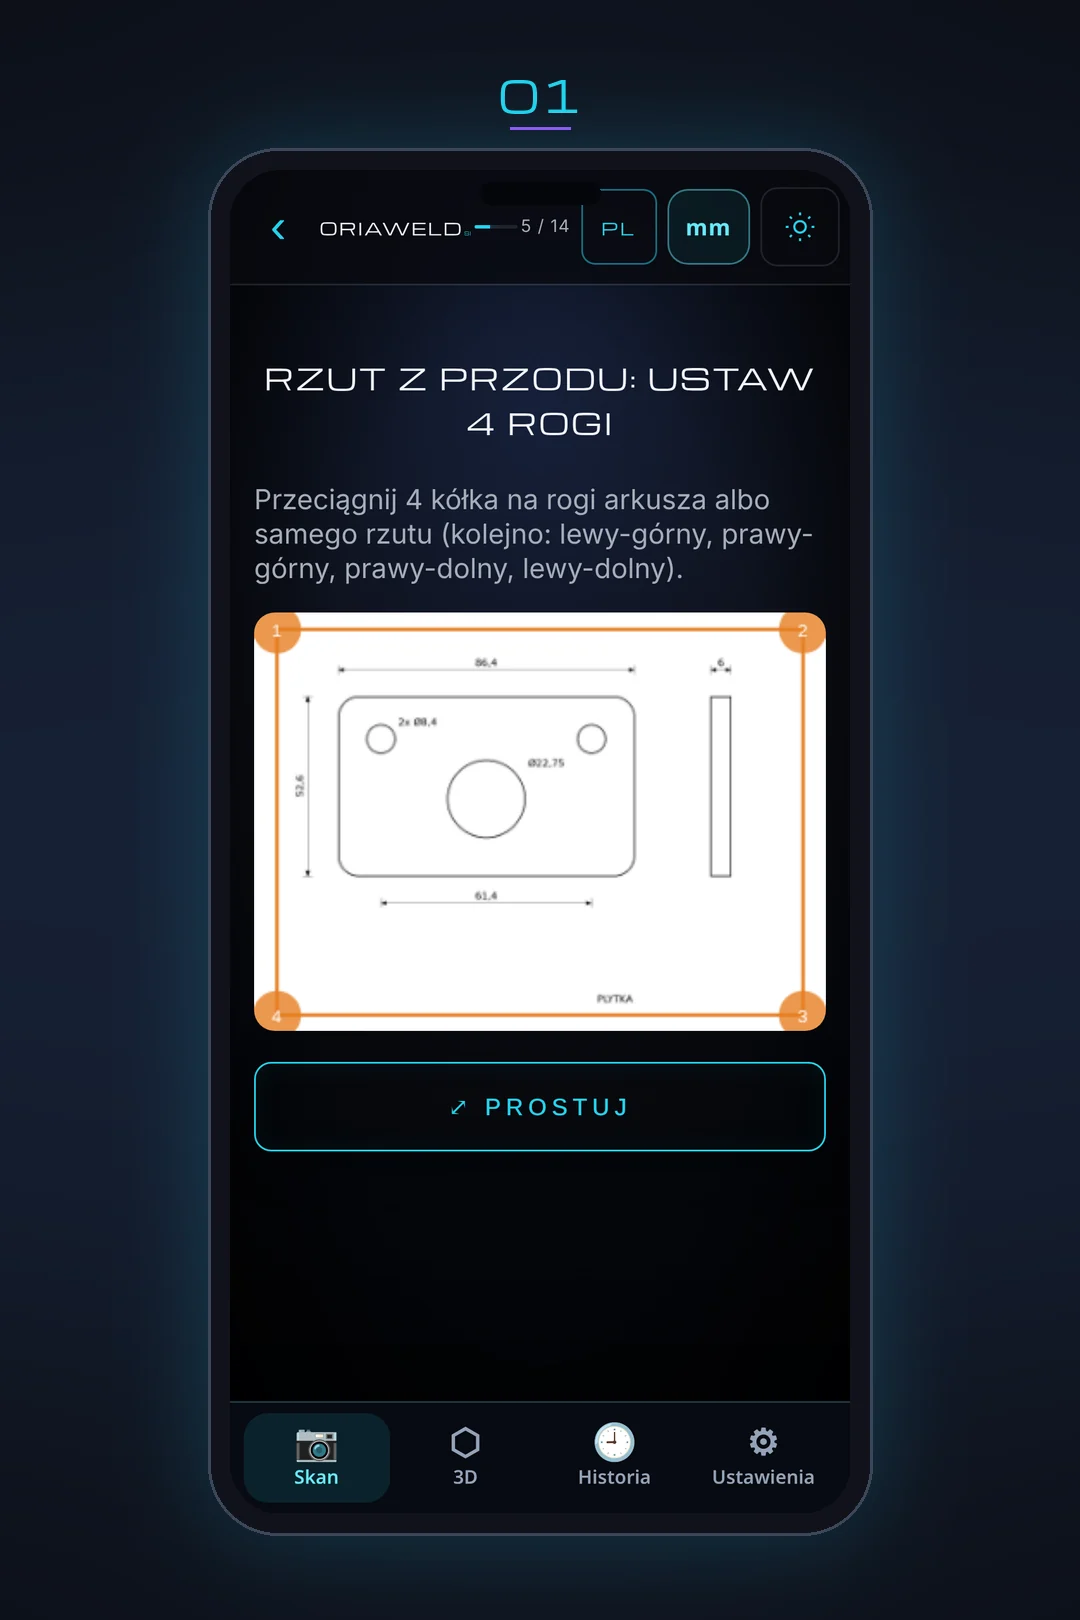
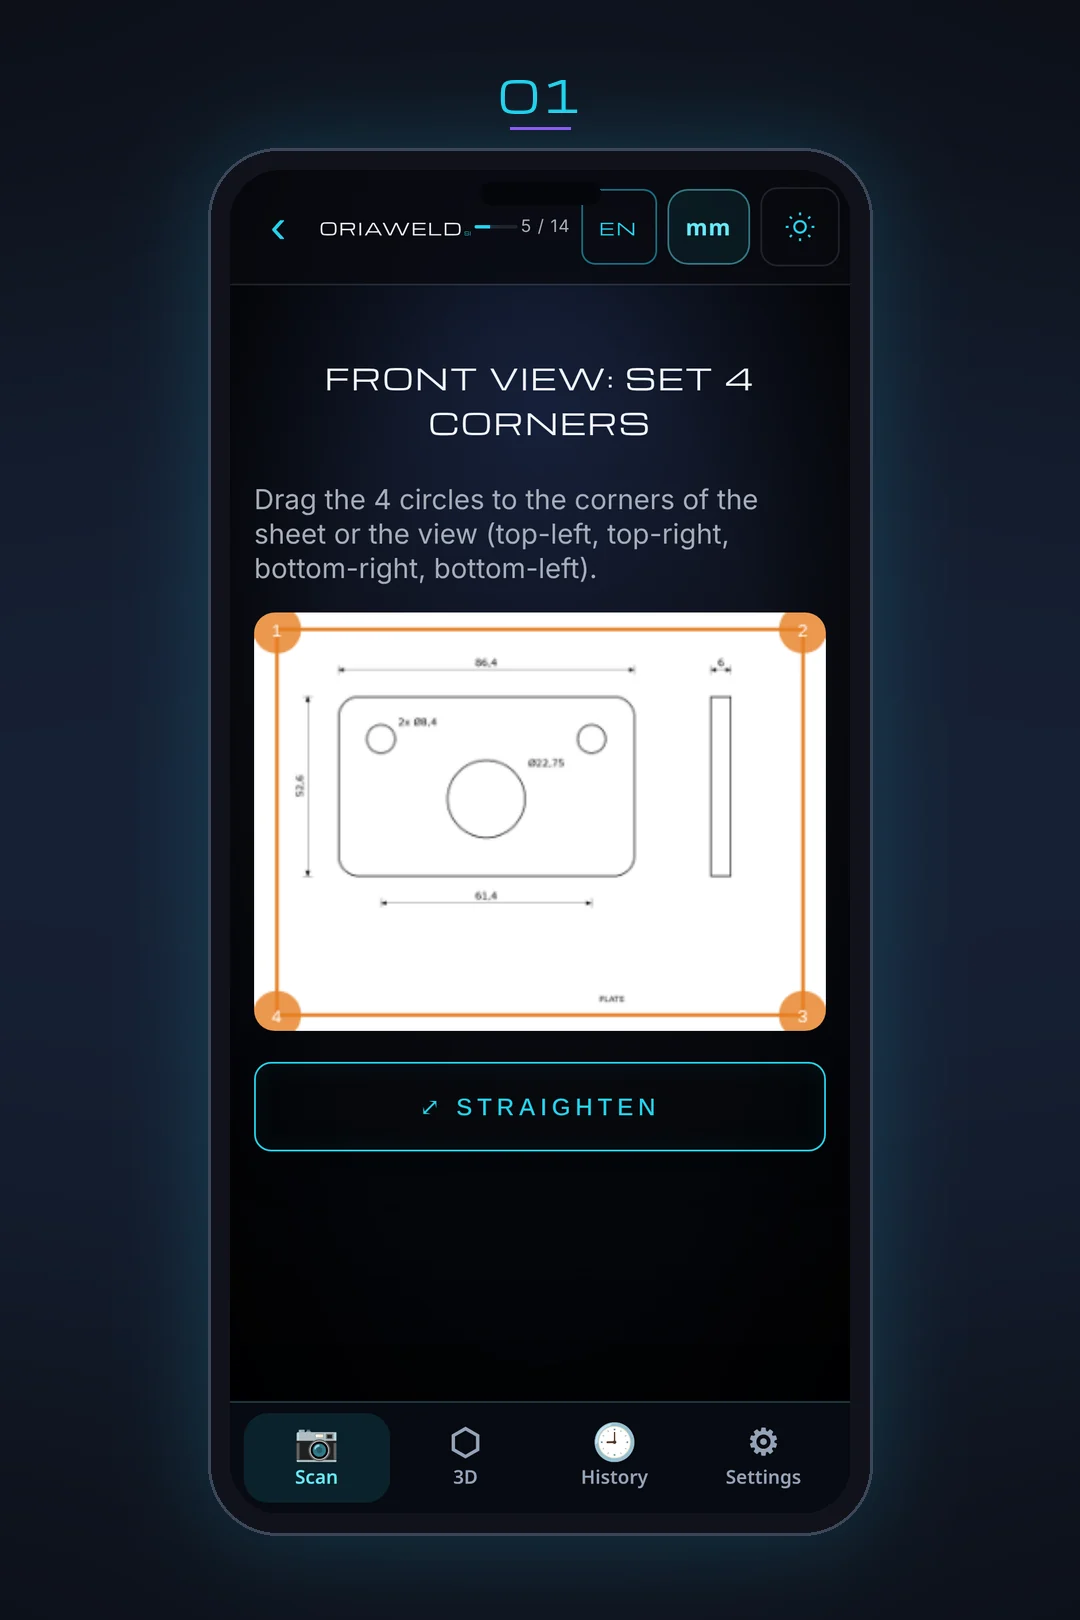
Nowe angielskie grafiki krokow (v=2), alt kroku 1: plyta

diff --git a/index.html b/index.html
@@ -139,9 +139,9 @@ footer a{display:inline-block;padding:.5rem .2rem}
 <sec id="jak">
   <h2 data-k="jak" style="text-align:center">Jak to działa</h2>
   <div class="steps">
-    <div class="st"><img src="img/krok1.webp" width="1080" height="1620" loading="eager" alt="Ekran aplikacji: kadrowanie zdjęcia rysunku technicznego" data-ka="s1a"><h3 data-k="s1t">Zrób zdjęcie rysunku</h3><p data-k="s1d">Sfotografuj rysunek techniczny lub wczytaj plik, potem wykadruj i wyprostuj.</p></div>
-    <div class="st"><img src="img/krok2.webp" width="1080" height="1620" loading="eager" alt="Ekran aplikacji: hologram 3D ramy z wymiarami na stole spawalniczym" data-ka="s2a"><h3 data-k="s2t">Program stworzy projekt 3D</h3><p data-k="s2d">Aplikacja odczyta wymiary i profile, a następnie zbuduje model 3D na Twoim stole.</p></div>
-    <div class="st"><img src="img/krok3.webp" width="1080" height="1620" loading="eager" alt="Ekran aplikacji: podgląd modelu i przycisk Zobacz w AR" data-ka="s3a"><h3 data-k="s3t">Włącz AR i przyspiesz pracę</h3><p data-k="s3d">Zobacz model w skali 1:1 na telefonie lub tablecie i pracuj szybciej.</p></div>
+    <div class="st"><img src="img/krok1.webp?v=2" width="1080" height="1620" loading="eager" alt="Ekran aplikacji: kadrowanie zdjęcia rysunku technicznego" data-ka="s1a"><h3 data-k="s1t">Zrób zdjęcie rysunku</h3><p data-k="s1d">Sfotografuj rysunek techniczny lub wczytaj plik, potem wykadruj i wyprostuj.</p></div>
+    <div class="st"><img src="img/krok2.webp?v=2" width="1080" height="1620" loading="eager" alt="Ekran aplikacji: hologram 3D ramy z wymiarami na stole spawalniczym" data-ka="s2a"><h3 data-k="s2t">Program stworzy projekt 3D</h3><p data-k="s2d">Aplikacja odczyta wymiary i profile, a następnie zbuduje model 3D na Twoim stole.</p></div>
+    <div class="st"><img src="img/krok3.webp?v=2" width="1080" height="1620" loading="eager" alt="Ekran aplikacji: podgląd modelu i przycisk Zobacz w AR" data-ka="s3a"><h3 data-k="s3t">Włącz AR i przyspiesz pracę</h3><p data-k="s3d">Zobacz model w skali 1:1 na telefonie lub tablecie i pracuj szybciej.</p></div>
   </div>
   <div class="dots"><i class="on"></i><i></i><i></i></div>
 </sec>
@@ -158,9 +158,9 @@ footer a{display:inline-block;padding:.5rem .2rem}
 
 <script>
 const D={
-pl:{kick:"PRZYSZŁOŚĆ SPAWALNICTWA DZIEJE SIĘ TERAZ",h1:"Bądź profesjonalistą.<br>Bądź na czasie.",lead:"Zrób zdjęcie rysunku. Zobacz gotową ramę na stole w kilka minut. Dokładne ułożenie. Mniej poprawek. Mniej stresu.",btn:"Pobierz teraz",j1:"Zrób zdjęcie rysunku technicznego.",j2:"W kilka minut dostajesz model 3D.",j3:"Zobacz dokładne ułożenie na swoim stole.",tech:"Bezpieczeństwo i technologia",techp:"Aplikacja działa offline. Silniki wytrenowane na sztucznej inteligencji. Siła matematyki i spawalniczego sprytu. Żadne rysunki nie wychodzą z telefonu.",ready:"Gotowy na zmianę?",readyp:"Wkrótce w App Store i Google Play.",kon:"Kontakt",konp:"Masz pytania o ORIAWELD SI? Napisz do nas.",soon:"Wkrótce",jak:"Jak to działa",s1t:"Zrób zdjęcie rysunku",s1d:"Sfotografuj rysunek techniczny lub wczytaj plik, potem wykadruj i wyprostuj.",s1a:"Ekran aplikacji: kadrowanie zdjęcia rysunku technicznego",s2t:"Program stworzy projekt 3D",s2d:"Aplikacja odczyta wymiary i profile, a następnie zbuduje model 3D na Twoim stole.",s2a:"Ekran aplikacji: hologram 3D ramy z wymiarami na stole spawalniczym",s3t:"Włącz AR i przyspiesz pracę",s3d:"Zobacz model w skali 1:1 na telefonie lub tablecie i pracuj szybciej.",s3a:"Ekran aplikacji: podgląd modelu i przycisk Zobacz w AR"},
-en:{kick:"THE FUTURE OF WELDING IS HAPPENING NOW",h1:"Be a professional.<br>Stay ahead.",lead:"Take a photo of the drawing. See the finished frame on the table in minutes. Exact placement. Fewer corrections. Less stress.",btn:"Download now",j1:"Take a photo of the technical drawing.",j2:"In minutes you get a 3D model.",j3:"See the exact placement on your table.",tech:"Security and technology",techp:"The app works offline. Engines trained with artificial intelligence. The power of mathematics and welding know-how. No drawings leave your phone.",ready:"Ready for a change?",readyp:"Coming soon to the App Store and Google Play.",kon:"Contact",konp:"Questions about ORIAWELD SI? Write to us.",soon:"Coming soon",jak:"How it works",s1t:"Take a photo of the drawing",s1d:"Photograph the technical drawing or upload a file, then crop and straighten it.",s1a:"App screen: cropping a photo of a technical drawing",s2t:"The app builds a 3D project",s2d:"It reads dimensions and profiles and builds a 3D model on your table.",s2a:"App screen: 3D hologram of a frame with dimensions on a welding table",s3t:"Turn on AR and work faster",s3d:"See the model at 1:1 scale on your phone or tablet and speed up your work.",s3a:"App screen: model preview and View in AR button"},
-de:{kick:"DIE ZUKUNFT DES SCHWEISSENS PASSIERT JETZT",h1:"Sei ein Profi.<br>Bleib auf dem neuesten Stand.",lead:"Fotografiere die Zeichnung. Sieh den fertigen Rahmen in Minuten auf dem Tisch. Exakte Position. Weniger Korrekturen. Weniger Stress.",btn:"Jetzt herunterladen",j1:"Fotografiere die technische Zeichnung.",j2:"In Minuten erhältst du ein 3D-Modell.",j3:"Sieh die exakte Platzierung auf deinem Tisch.",tech:"Sicherheit und Technologie",techp:"Die App funktioniert offline. Engines trainiert mit künstlicher Intelligenz. Die Kraft der Mathematik und schweißtechnischen Könnens. Keine Zeichnungen verlassen das Telefon.",ready:"Bereit für Veränderung?",readyp:"Bald im App Store und bei Google Play.",kon:"Kontakt",konp:"Fragen zu ORIAWELD SI? Schreib uns.",soon:"Demnächst",jak:"So funktioniert es",s1t:"Fotografiere die Zeichnung",s1d:"Technische Zeichnung fotografieren oder Datei laden, dann zuschneiden und begradigen.",s1a:"App-Ansicht: Zuschneiden eines Fotos einer technischen Zeichnung",s2t:"Die App erstellt ein 3D-Projekt",s2d:"Sie erkennt Maße und Profile und baut ein 3D-Modell auf deinem Tisch.",s2a:"App-Ansicht: 3D-Hologramm eines Rahmens mit Maßen auf dem Schweißtisch",s3t:"AR einschalten, schneller arbeiten",s3d:"Sieh das Modell im Maßstab 1:1 auf Handy oder Tablet und arbeite schneller.",s3a:"App-Ansicht: Modellvorschau und Schaltfläche In AR ansehen"}
+pl:{kick:"PRZYSZŁOŚĆ SPAWALNICTWA DZIEJE SIĘ TERAZ",h1:"Bądź profesjonalistą.<br>Bądź na czasie.",lead:"Zrób zdjęcie rysunku. Zobacz gotową ramę na stole w kilka minut. Dokładne ułożenie. Mniej poprawek. Mniej stresu.",btn:"Pobierz teraz",j1:"Zrób zdjęcie rysunku technicznego.",j2:"W kilka minut dostajesz model 3D.",j3:"Zobacz dokładne ułożenie na swoim stole.",tech:"Bezpieczeństwo i technologia",techp:"Aplikacja działa offline. Silniki wytrenowane na sztucznej inteligencji. Siła matematyki i spawalniczego sprytu. Żadne rysunki nie wychodzą z telefonu.",ready:"Gotowy na zmianę?",readyp:"Wkrótce w App Store i Google Play.",kon:"Kontakt",konp:"Masz pytania o ORIAWELD SI? Napisz do nas.",soon:"Wkrótce",jak:"Jak to działa",s1t:"Zrób zdjęcie rysunku",s1d:"Sfotografuj rysunek techniczny lub wczytaj plik, potem wykadruj i wyprostuj.",s1a:"Ekran aplikacji: kadrowanie zdjęcia rysunku technicznego płyty",s2t:"Program stworzy projekt 3D",s2d:"Aplikacja odczyta wymiary i profile, a następnie zbuduje model 3D na Twoim stole.",s2a:"Ekran aplikacji: hologram 3D ramy z wymiarami na stole spawalniczym",s3t:"Włącz AR i przyspiesz pracę",s3d:"Zobacz model w skali 1:1 na telefonie lub tablecie i pracuj szybciej.",s3a:"Ekran aplikacji: podgląd modelu i przycisk Zobacz w AR"},
+en:{kick:"THE FUTURE OF WELDING IS HAPPENING NOW",h1:"Be a professional.<br>Stay ahead.",lead:"Take a photo of the drawing. See the finished frame on the table in minutes. Exact placement. Fewer corrections. Less stress.",btn:"Download now",j1:"Take a photo of the technical drawing.",j2:"In minutes you get a 3D model.",j3:"See the exact placement on your table.",tech:"Security and technology",techp:"The app works offline. Engines trained with artificial intelligence. The power of mathematics and welding know-how. No drawings leave your phone.",ready:"Ready for a change?",readyp:"Coming soon to the App Store and Google Play.",kon:"Contact",konp:"Questions about ORIAWELD SI? Write to us.",soon:"Coming soon",jak:"How it works",s1t:"Take a photo of the drawing",s1d:"Photograph the technical drawing or upload a file, then crop and straighten it.",s1a:"App screen: cropping a photo of a plate drawing",s2t:"The app builds a 3D project",s2d:"It reads dimensions and profiles and builds a 3D model on your table.",s2a:"App screen: 3D hologram of a frame with dimensions on a welding table",s3t:"Turn on AR and work faster",s3d:"See the model at 1:1 scale on your phone or tablet and speed up your work.",s3a:"App screen: model preview and View in AR button"},
+de:{kick:"DIE ZUKUNFT DES SCHWEISSENS PASSIERT JETZT",h1:"Sei ein Profi.<br>Bleib auf dem neuesten Stand.",lead:"Fotografiere die Zeichnung. Sieh den fertigen Rahmen in Minuten auf dem Tisch. Exakte Position. Weniger Korrekturen. Weniger Stress.",btn:"Jetzt herunterladen",j1:"Fotografiere die technische Zeichnung.",j2:"In Minuten erhältst du ein 3D-Modell.",j3:"Sieh die exakte Platzierung auf deinem Tisch.",tech:"Sicherheit und Technologie",techp:"Die App funktioniert offline. Engines trainiert mit künstlicher Intelligenz. Die Kraft der Mathematik und schweißtechnischen Könnens. Keine Zeichnungen verlassen das Telefon.",ready:"Bereit für Veränderung?",readyp:"Bald im App Store und bei Google Play.",kon:"Kontakt",konp:"Fragen zu ORIAWELD SI? Schreib uns.",soon:"Demnächst",jak:"So funktioniert es",s1t:"Fotografiere die Zeichnung",s1d:"Technische Zeichnung fotografieren oder Datei laden, dann zuschneiden und begradigen.",s1a:"App-Ansicht: Zuschneiden eines Fotos einer Plattenzeichnung",s2t:"Die App erstellt ein 3D-Projekt",s2d:"Sie erkennt Maße und Profile und baut ein 3D-Modell auf deinem Tisch.",s2a:"App-Ansicht: 3D-Hologramm eines Rahmens mit Maßen auf dem Schweißtisch",s3t:"AR einschalten, schneller arbeiten",s3d:"Sieh das Modell im Maßstab 1:1 auf Handy oder Tablet und arbeite schneller.",s3a:"App-Ansicht: Modellvorschau und Schaltfläche In AR ansehen"}
 };
 const RT={"pl": [["Czym jest ORIAWELD", "Aplikacja dla spawalni i konstrukcji stalowych.", "Zamienia rysunek techniczny w model 3D.", "Pokazuje go w Twoim warsztacie w skali 1:1.", "Konkretnie, szybko, bez zgadywania."], ["Idea", "Rysunek na papierze to dopiero początek.", "Zanim przytniesz pierwszy profil, zobacz całą ramę.", "Mniej liczenia na kartce, więcej pewnych spoin.", "Technologia ma pracować dla spawacza."], ["Jak to działa", "Zrób zdjęcie rysunku albo go wczytaj.", "Wykadruj i wyprostuj jednym ruchem.", "Aplikacja odczyta wymiary i profile.", "Po chwili masz gotowy model 3D."], ["Model na stole", "Hologram ramy z wymiarami w milimetrach,", "ustawiony na Twoim stole spawalniczym.", "Jednym kliknięciem przełączysz go na widok stali.", "Widzisz, jak ułożyć każdy element."], ["AR w skali 1:1", "Postaw model w prawdziwym warsztacie.", "Obejdź go dookoła i sprawdź każdy wymiar.", "Zanim zaczniesz ciąć i spawać.", "Rozszerzona rzeczywistość prosto z telefonu."], ["Twoje dane zostają u Ciebie", "Analiza działa lokalnie, na Twoim urządzeniu.", "Projekty zapisują się w telefonie lub laptopie.", "Działa też offline, prosto w przeglądarce.", "Po polsku, angielsku i niemiecku, w mm lub calach."], ["Przyszłość", "To dopiero początek.", "Wkrótce funkcja „Popraw projekt”:", "głębsza analiza i kolejne wersje modelu.", "ORIAWELD rośnie razem z Twoim warsztatem."]], "en": [["What is ORIAWELD", "An app for welding shops and steel fabrication.", "It turns a technical drawing into a 3D model", "and shows it in your workshop at 1:1 scale.", "Precise, fast, no guesswork."], ["The idea", "A drawing on paper is only the beginning.", "See the whole frame before you cut the first profile.", "Less math on paper, more confident welds.", "Technology should work for the welder."], ["How it works", "Take a photo of the drawing or upload it.", "Crop and straighten it in one move.", "The app reads the dimensions and profiles.", "Moments later, your 3D model is ready."], ["Model on the table", "A hologram of the frame with dimensions in millimetres,", "placed right on your welding table.", "Switch to a steel view with a single click.", "See exactly how to position every part."], ["AR at 1:1 scale", "Place the model in your real workshop.", "Walk around it and check every dimension", "before you start cutting and welding.", "Augmented reality straight from your phone."], ["Your data stays with you", "Analysis runs locally, on your device.", "Projects are saved on your phone or laptop.", "Works offline too, right in your browser.", "In Polish, English and German, in mm or inches."], ["The future", "This is just the beginning.", "Coming soon: the “Improve design” feature,", "deeper analysis and new model versions.", "ORIAWELD grows together with your workshop."]], "de": [["Was ist ORIAWELD", "Eine App für Schweißbetriebe und Stahlbau.", "Sie verwandelt eine technische Zeichnung in ein 3D-Modell", "und zeigt es in deiner Werkstatt im Maßstab 1:1.", "Präzise, schnell, ohne Rätselraten."], ["Die Idee", "Die Zeichnung auf Papier ist erst der Anfang.", "Sieh den ganzen Rahmen, bevor du das erste Profil zuschneidest.", "Weniger Rechnen auf Papier, mehr sichere Schweißnähte.", "Technik soll für den Schweißer arbeiten."], ["So funktioniert es", "Fotografiere die Zeichnung oder lade sie hoch.", "Zuschneiden und begradigen mit einem Griff.", "Die App erkennt Maße und Profile.", "Kurz darauf ist dein 3D-Modell fertig."], ["Modell auf dem Tisch", "Ein Hologramm des Rahmens mit Maßen in Millimetern,", "direkt auf deinem Schweißtisch platziert.", "Mit einem Klick wechselst du zur Stahlansicht.", "Du siehst, wie jedes Teil liegen muss."], ["AR im Maßstab 1:1", "Stell das Modell in deine echte Werkstatt.", "Geh drumherum und prüfe jedes Maß,", "bevor du schneidest und schweißt.", "Augmented Reality direkt vom Smartphone."], ["Deine Daten bleiben bei dir", "Die Analyse läuft lokal auf deinem Gerät.", "Projekte werden auf Handy oder Laptop gespeichert.", "Funktioniert auch offline, direkt im Browser.", "Auf Polnisch, Englisch und Deutsch, in mm oder Zoll."], ["Die Zukunft", "Das ist erst der Anfang.", "Bald kommt die Funktion „Projekt verbessern“:", "tiefere Analyse und neue Modellversionen.", "ORIAWELD wächst mit deiner Werkstatt."]]};let RL='pl',RI=0;
 function rotDraw(){const a=RT[RL][RI],e=document.getElementById('rotIt');e.innerHTML='<h4>'+a[0]+'</h4><p>'+a.slice(1).join('<br>')+'</p>'}
